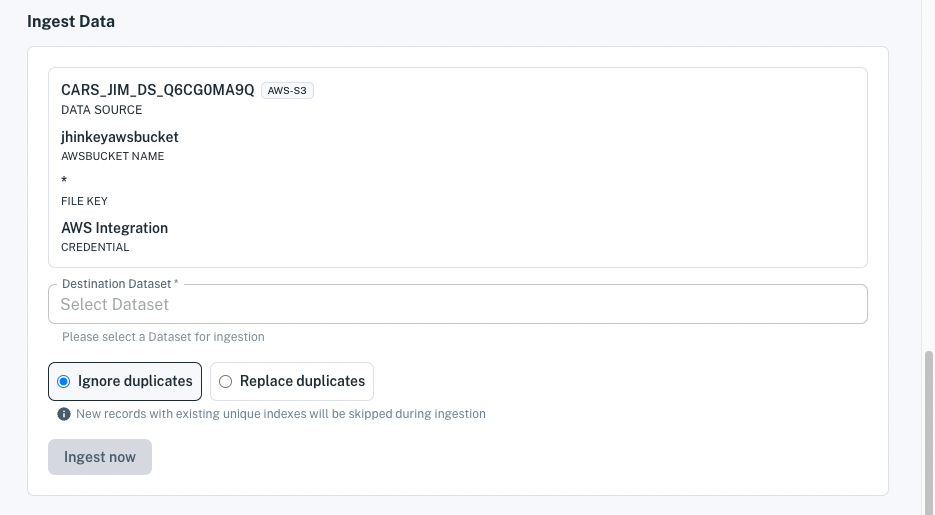
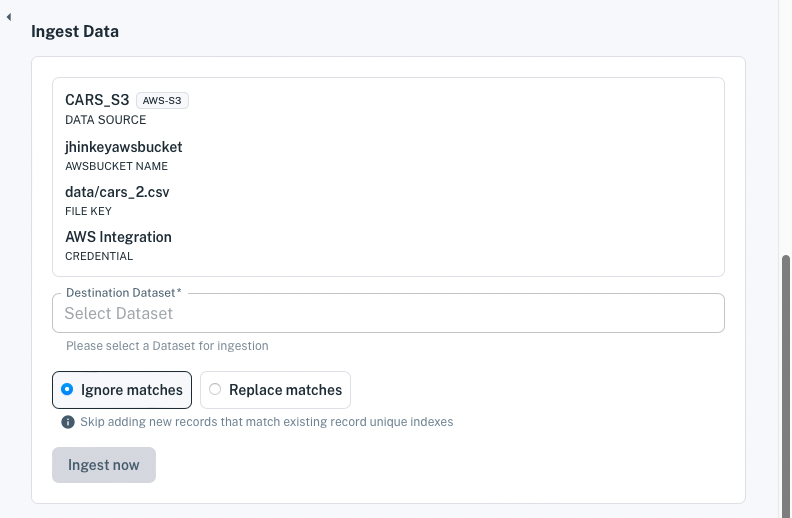
PFM-1816 use "Ignore matches" and "Replace matches"

diff --git a/source/migrating-and-importing-data/load-more-data-into-a-dataset.md b/source/migrating-and-importing-data/load-more-data-into-a-dataset.md
@@ -8,12 +8,12 @@ You can load more data into an existing dataset using any of these ways:
 
 We'll cover each of the above options. No matter the option you choose, however, you must decide how to handle when an incoming record matches (i.e., has the same [Unique Index](../reference/glossary.md#unique-index)) an existing record.
 
-You can handle matching records (duplicates) in either of these ways:
+You can handle matching records in either of these ways:
 
-- **Ignore Duplicates:** Skip ingesting the new record. (Default)
-- **Replace Duplicates:** Overwrite the existing record with the new record.
+- **Ignore matches:** Skip ingesting the new record. (Default)
+- **Replace matches:** Overwrite the existing record with the new record.
 
-As we over each data ingestion method, we'll call out the duplicate handling options.
+As we over each data ingestion method, we'll call out the matched record handling options.
 
 ## Load Data from a New Data Source
 
@@ -33,7 +33,7 @@ You dataset's **Overview** page has an **Ingest data** button you can click to s
     - [URL](./loading-data-from-a-url.md)
     - [File](./loading-data-from-a-file.md)
 
-    ``` {important} **Incoming duplicates are ignored**. By default, Apperate skips ingesting new records that match (have same [Unique Index](../reference/glossary.md#unique-index) as) existing records. 
+    ``` {important} **Incoming matches are ignored**. By default, Apperate skips ingesting new records that match (have same [Unique Index](../reference/glossary.md#unique-index) as) existing records. 
     ```
 
 Data loads into your dataset.
@@ -60,7 +60,7 @@ If you have already have an existing [data source](../reference/glossary.md#data
 
     ![](./load-more-data-into-a-dataset/destination-dataset.png)
 
-1. Select your option for handling duplicate records: **Ignore Duplicates** or **Replace Duplicates**.
+1. Select your option for handling matched records: **Ignore matches** or **Replace matches**.
 
 1. When you're done specifying options, click **Ingest Data**.
 

diff --git a/source/faqs.md b/source/faqs.md
@@ -106,14 +106,14 @@ No user may provide IEX Cloud data via their own API to users, or provide a mech
 Attribution is required for all users. It is as simple as putting “Data provided by IEX Cloud” somewhere on your site or app and linking that text to <https://iexcloud.io>.
 </details>
 
-<details><summary>What do the **Ignore Duplicates** and **Replace Duplicates** options mean when loading data?</summary>
+<details><summary>What do the **Ignore matches** and **Replace matches** options mean when loading data?</summary>
 
 When you ingest more data into a dataset, you must decide how to handle incoming records that match (have the same [unique index](./reference/glossary.md#unique-index) as) an existing record).
 
 Apperate gives you two options:
 
-- **Ignore Duplicates:** Skip ingesting the new record. (Default)
-- **Replace Duplicates:** Overwrite the existing record with the new record.
+- **Ignore matches:** Skip ingesting the new record. (Default)
+- **Replace matches:** Overwrite the existing record with the new record.
 </details>
 
 <details><summary>Why are no rows returned when I SQL JOIN with QUOTE and other real-time datasets?</summary>

diff --git a/source/administration/monitoring-deployments.md b/source/administration/monitoring-deployments.md
@@ -30,7 +30,7 @@ To see a log stream message's details, double-click the message. The message det
 
 ## Ingestion Logs
 
-The **Ingestion Logs** page lists each data ingestion job and provides status, record ingestion/validation count, processing times, duplicate record handling type, and data source type. You can use the **Columns** and **Filters** drop downs to show the columns you want and filter on the jobs.
+The **Ingestion Logs** page lists each data ingestion job and provides status, record ingestion/validation count, processing times, matched record handling type, and data source type. You can use the **Columns** and **Filters** drop downs to show the columns you want and filter on the jobs.
 
 ![ingestion-jobs.png](./monitoring-deployments/ingestion-jobs.png)
 
